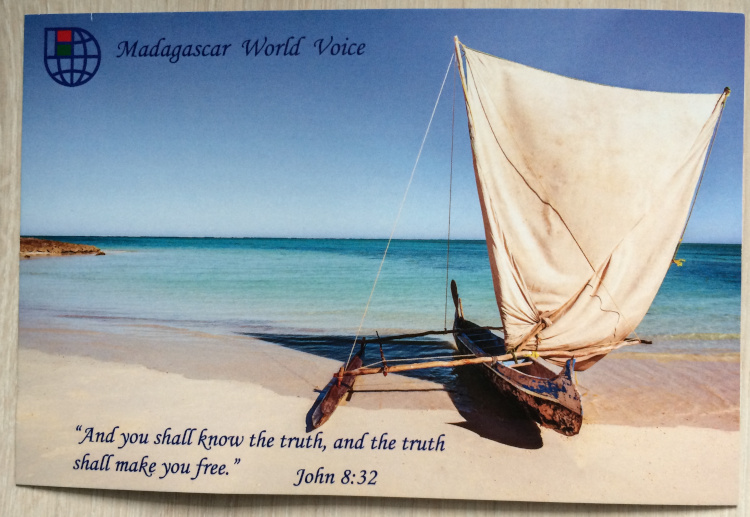
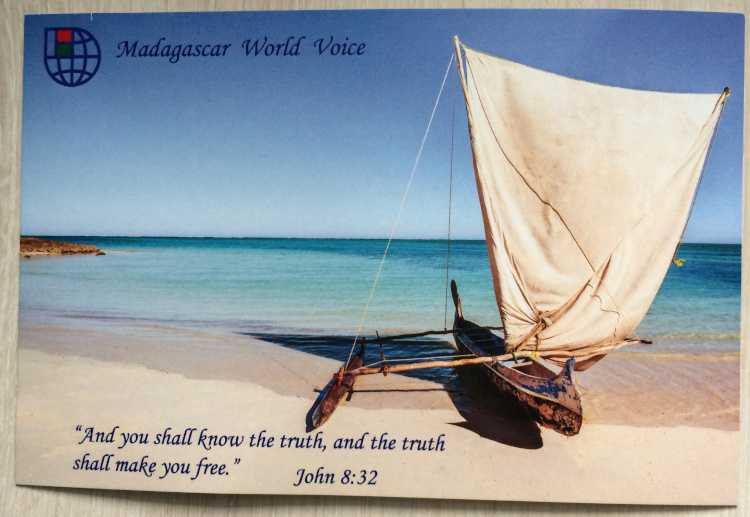
QSLs were added.

diff --git a/_posts/2024-11-07-palavraalegre2024.md b/_posts/2024-11-07-palavraalegre2024.md
@@ -1,0 +1,23 @@
+---
+title: Palavra Alegre
+kind: QSL
+frequency: 9765 kHz
+language: Portuguese
+reception_date: 2024-07-11
+reception_time: 21.00-21.57
+location: Moscow, Russia (inside city)
+mail_to: mailto:contato@palavraalegre.com.br
+receiver: BELKA
+antenna: telescopic
+station: mahajanga
+youtube_id: ES036_2x1kQ
+report_sent: 2024-07-13
+responce_sent: 2024-08-14
+responce_received: 2024-11-05
+serie: wcb
+gallery:
+  - /assets/qsl/2024/mwv/palalgr_2024_front_full.jpg:/assets/qsl/2024/mwv/palalgr_2024_front_small.jpg
+  - /assets/qsl/2024/mwv/palalgr_2024_back_full.jpg:/assets/qsl/2024/mwv/palalgr_2024_back_small.jpg
+  - /assets/qsl/2024/mwv/palalgr_2024_sticker_full.jpg:/assets/qsl/2024/mwv/palalgr_2024_sticker_small.jpg
+  - /assets/qsl/2024/mwv/palalgr_2024_envelope_full.jpg:/assets/qsl/2024/mwv/palalgr_2024_envelope_small.jpg
+---

diff --git a/_posts/2024-11-07-palavraalegre2022.md b/_posts/2024-11-07-palavraalegre2022.md
@@ -1,0 +1,21 @@
+---
+title: Palavra Alegre
+kind: QSL
+frequency: 9765 kHz
+language: Portuguese
+reception_date: 2022-06-17
+reception_time: 21.00-21.57
+location: Moscow, Russia (inside city)
+mail_to: mailto:contato@palavraalegre.com.br
+receiver: Airspy HF+ Discovery
+antenna: Youloop magnetic loop
+station: mahajanga
+youtube_id: 6cc-DOA_VbQ
+report_sent: 2022-06-20
+responce_sent: 2024-08-14
+responce_received: 2024-11-05
+serie: wcb
+gallery:
+  - /assets/qsl/2022/mwv/full/palalgr_2022_front.jpg:/assets/qsl/2022/mwv/small/palalgr_2022_front.jpg
+  - /assets/qsl/2022/mwv/full/palalgr_2022_back.jpg:/assets/qsl/2022/mwv/small/palalgr_2022_back.jpg
+---
